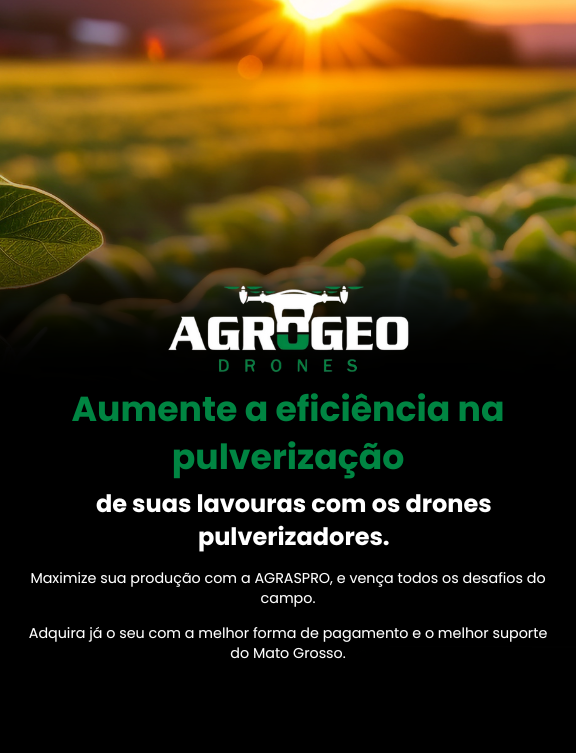
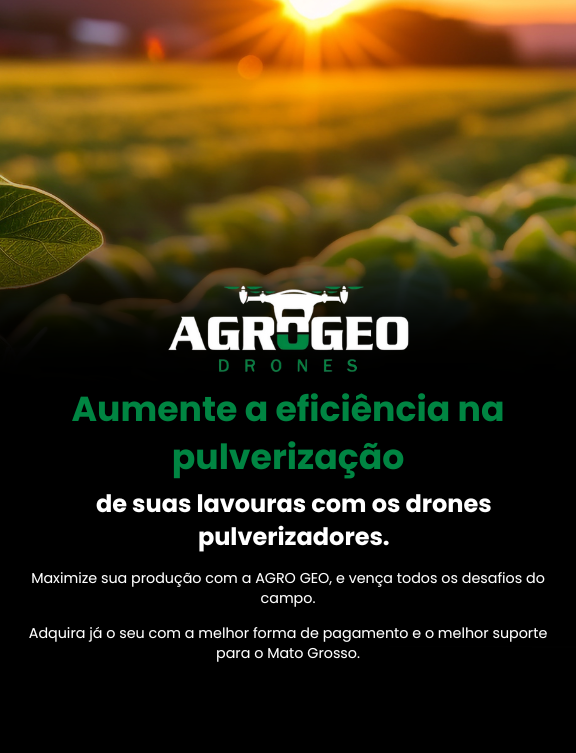
fix: ajustes nomeclaturas

Changed region(s): [[0.0625, 0.7636, 0.9375, 0.7942], [0.375, 0.8552, 0.625, 0.8858]]

diff --git a/src/components/Sections/Footer/index.tsx b/src/components/Sections/Footer/index.tsx
@@ -1,4 +1,9 @@
-import { EnvironmentOutlined, PhoneOutlined } from "@ant-design/icons";
+import {
+  EnvironmentOutlined,
+  InstagramOutlined,
+  PhoneOutlined,
+} from "@ant-design/icons";
+import Link from "next/link";
 import React, { FC, ReactElement } from "react";
 
 import S from "./styles";
@@ -11,13 +16,13 @@ const Footer: FC = (): ReactElement => {
       <S.WrapperFooter>
         <S.SectionOne>
           <S.TitleSectionOne>
-            Maximize sua produção com a AGRASPRO,
+            Maximize sua produção com a AGRO GEO,
             <span> e vença todos os desafios do campo.</span>
           </S.TitleSectionOne>
 
           <S.DescriptionSectionOne>
             Adquira já o seu com a melhor forma de pagamento e o melhor suporte
-            do Mato Grosso.
+            para o Mato Grosso.
           </S.DescriptionSectionOne>
         </S.SectionOne>
 
@@ -45,8 +50,8 @@ const Footer: FC = (): ReactElement => {
                 <S.TextSectionTwo>Endereço</S.TextSectionTwo>
 
                 <span>
-                  R. do Cachimbo, 228 - Jardim Planalto, Novo Progresso - PA,
-                  68193-000
+                  R. Santos Dumont com R. Monte Castelo, 120, Novo Progresso -
+                  PA, 68193-000
                 </span>
               </S.ItemContent>
             </S.ItemSection>
@@ -56,8 +61,21 @@ const Footer: FC = (): ReactElement => {
               <S.ItemContent>
                 <S.TextSectionTwo>Telefone</S.TextSectionTwo>
 
-                <span>(93) 98414-4452</span>
+                <span>(93) 98408-3831</span>
               </S.ItemContent>
+            </S.ItemSection>
+
+            <S.ItemSection>
+              <Link
+                passHref
+                href="https://www.instagram.com/agrogeodrones"
+                target="_blank"
+              >
+                <InstagramOutlined />
+                <S.ItemContent>
+                  <S.TextSectionTwo>Instagram</S.TextSectionTwo>
+                </S.ItemContent>
+              </Link>
             </S.ItemSection>
           </S.SectionContent>
         </S.SectionThree>

diff --git a/src/components/Sections/Benefits/components/CardItem/styles.ts b/src/components/Sections/Benefits/components/CardItem/styles.ts
@@ -21,9 +21,34 @@ export const Container = styled.div`
 
   padding: 14px 24px;
 
+  @media (max-width: 1280px) {
+    width: 280px;
+    height: 260px;
+  }
+
+  @media (max-width: 1024px) {
+    width: 240px;
+    height: 240px;
+  }
+
+  @media (max-width: 800px) {
+    width: 300px;
+    height: 280px;
+  }
+
+  @media (max-width: 768px) {
+    width: 260px;
+    height: 240px;
+  }
+
+  @media (max-width: 576px) {
+    width: 250px;
+    height: 230px;
+  }
+
   @media (max-width: 576px) {
     width: 100%;
-    height: 280px;
+    height: 260px;
   }
 `;
 
@@ -34,6 +59,22 @@ export const Title = styled.div`
   padding: 48px 0 8px 0;
   text-align: initial;
   width: 100%;
+
+  @media (max-width: 1280px) {
+    font-size: 18px;
+  }
+
+  @media (max-width: 1024px) {
+    padding: 38px 0 8px 0;
+  }
+
+  @media (max-width: 768px) {
+    padding: 28px 0 8px 0;
+  }
+
+  @media (max-width: 576px) {
+    font-size: 22px;
+  }
 `;
 
 export const Description = styled.div`
@@ -41,6 +82,14 @@ export const Description = styled.div`
   font-weight: 500;
   text-align: initial;
   width: 100%;
+
+  @media (max-width: 1280px) {
+    font-size: 12px;
+  }
+
+  @media (max-width: 576px) {
+    font-size: 14px;
+  }
 `;
 
 export const SectionIcone = styled.div`
@@ -60,8 +109,31 @@ export const SectionIcone = styled.div`
   top: -24px;
   left: 24px;
 
+  @media (max-width: 1280px) {
+    width: 72px;
+    height: 72px;
+  }
+
+  @media (max-width: 1024px) {
+    width: 66px;
+    height: 66px;
+  }
+
+  @media (max-width: 576px) {
+    width: 102px;
+    height: 102px;
+  }
+
   svg {
     font-size: 42px;
+
+    @media (max-width: 1280px) {
+      font-size: 36px;
+    }
+
+    @media (max-width: 576px) {
+      font-size: 48px;
+    }
   }
 `;
 

diff --git a/src/components/Sections/Banner/styles.ts b/src/components/Sections/Banner/styles.ts
@@ -176,29 +176,30 @@ export const SectionDrone = styled.div`
 export const ButtonWrapper = styled.div`
   position: absolute;
   bottom: 7vh;
-  left: 21vh;
+  left: 34vh;
   transform: translateX(-50%);
 
   @media (max-width: 1920px) {
-    left: 28vh;
+    left: 38vh;
   }
 
   @media (max-width: 1600px) {
-    bottom: 5vh;
+    bottom: 4vh;
+    left: 34vh;
   }
 
   @media (max-width: 1440px) {
-    bottom: 4vh;
-    left: 24vh;
+    bottom: 3vh;
+    left: 30vh;
   }
 
   @media (max-width: 1280px) {
-    left: 23vh;
-    bottom: 3vh;
+    left: 28vh;
+    bottom: 2vh;
   }
 
   @media (max-width: 1024px) {
-    left: 21vh;
+    left: 22vh;
     bottom: 2vh;
   }
 
@@ -232,6 +233,11 @@ export const ButtonAction = styled.button`
   @media (max-width: 1440px) {
     font-size: 0.8rem;
     padding: 1rem 3rem;
+  }
+
+  @media (max-width: 1024px) {
+    font-size: 0.7rem;
+    padding: 0.8rem 3rem;
   }
 
   @media (max-width: 800px) {

diff --git a/src/components/Sections/Benefits/styles.ts b/src/components/Sections/Benefits/styles.ts
@@ -9,11 +9,15 @@ export const Container = styled.div`
   justify-content: center;
   flex-direction: column;
 
-  @media (max-width: 1024px) {
+  @media (max-width: 1600px) {
     width: 80%;
   }
 
-  @media (max-width: 800px) {
+  @media (max-width: 1280px) {
+    width: 90%;
+  }
+
+  @media (max-width: 1024px) {
     width: 96%;
   }
 
@@ -41,14 +45,18 @@ export const SectionCards = styled.div`
   row-gap: 44px;
   column-gap: 34px;
 
-  @media (max-width: 800px) {
-    row-gap: 34px;
+  @media (max-width: 1024px) {
+    row-gap: 44px;
     column-gap: 24px;
   }
 
-  @media (max-width: 576px) {
+  @media (max-width: 800px) {
     row-gap: 44px;
+    column-gap: 0px;
+    justify-content: space-evenly;
+  }
 
+  @media (max-width: 576px) {
     .motion-div {
       width: 100%;
     }

diff --git a/src/components/Sections/InfoDrones/components/ItemDrone/styles.ts b/src/components/Sections/InfoDrones/components/ItemDrone/styles.ts
@@ -17,8 +17,6 @@ export const Container = styled.div`
 `;
 
 export const SectionDrone = styled.div`
-  /* border-top-right-radius: 48px;
-  border-top-left-radius: 48px; */
   background: rgb(0, 133, 66);
   background: linear-gradient(180deg, rgba(0, 133, 66, 1) 34%, #000 30%);
   width: 100%;
@@ -139,6 +137,7 @@ export const SectionInfoItens = styled.div`
   justify-content: center;
   row-gap: 44px;
   column-gap: 34px;
+  padding: 80px 0 40px 0;
 
   @media (max-width: 1280px) {
     width: 80%;
@@ -146,7 +145,6 @@ export const SectionInfoItens = styled.div`
 
   @media (max-width: 1024px) {
     width: 96%;
-    padding: 40px 0;
   }
 
   @media (max-width: 800px) {

diff --git a/src/components/Sections/Footer/styles.ts b/src/components/Sections/Footer/styles.ts
@@ -110,10 +110,17 @@ export const SectionContent = styled.div`
 `;
 
 export const ItemSection = styled.div`
+  width: 100%;
   align-items: center;
   display: flex;
   justify-content: flex-start;
   column-gap: 16px;
+
+  a {
+    width: 100%;
+    display: flex;
+    column-gap: 16px;
+  }
 
   svg {
     font-size: 28px;

diff --git a/src/components/Sections/Banner/index.tsx b/src/components/Sections/Banner/index.tsx
@@ -1,4 +1,4 @@
-import BannerIMG from "~/assets/images/banner-full.png";
+import BannerIMG from "~/assets/images/banner-full4.png";
 import BannerMobileIMG from "~/assets/images/banner-mobile.png";
 import BannerTabletIMG from "~/assets/images/banner-tablet.png";
 import T50 from "~/assets/images/T50.png";
